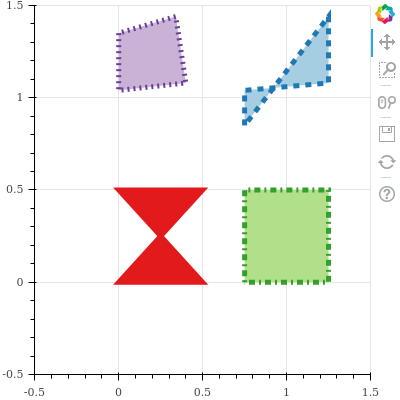
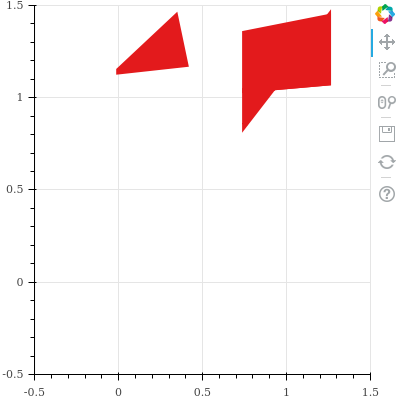
adding glyphs

diff --git a/visualizations/bokeh/figures/patch.html b/visualizations/bokeh/figures/patch.html
@@ -26,15 +26,15 @@
     <body>
         
         <div class="bk-root">
-            <div class="bk-plotdiv" id="acb2f535-c34e-4d77-b010-fb8c0f81516b"></div>
+            <div class="bk-plotdiv" id="664c1807-5802-43e1-a7bb-a69fbcb87f77"></div>
         </div>
         
         <script type="text/javascript">
             (function() {
           var fn = function() {
             Bokeh.safely(function() {
-              var docs_json = {"2e50db99-064f-498f-8656-4779b8f4eb30":{"roots":{"references":[{"attributes":{},"id":"783649a9-7b13-43c9-bb1c-559edea80e43","type":"BasicTickFormatter"},{"attributes":{},"id":"b2e44021-b923-4e7d-a6bb-28e6ff9cbe1a","type":"SaveTool"},{"attributes":{"data_source":{"id":"6ec3e90a-f447-46b9-a627-aa3384a4c715","type":"ColumnDataSource"},"glyph":{"id":"c9fff9de-6a8f-4f24-adc7-6ce4940cdd6e","type":"Patch"},"hover_glyph":null,"muted_glyph":null,"nonselection_glyph":{"id":"0e69bafe-fbf4-4b23-9811-c5df96c97fb1","type":"Patch"},"selection_glyph":null,"view":{"id":"1a965ad6-6dcb-4955-8770-4909d5cb0684","type":"CDSView"}},"id":"0b53b412-20fd-46e2-a4f5-11a2172a43cd","type":"GlyphRenderer"},{"attributes":{"source":{"id":"7b03a29e-695d-48c9-bf1a-b7f462319091","type":"ColumnDataSource"}},"id":"cbc02ddc-7483-4523-85de-5414f2ba7eb3","type":"CDSView"},{"attributes":{},"id":"c3b8a39f-5ce0-4db8-9dc5-6ad35fe9846f","type":"LinearScale"},{"attributes":{"formatter":{"id":"783649a9-7b13-43c9-bb1c-559edea80e43","type":"BasicTickFormatter"},"plot":{"id":"d9ff9a8d-fe4f-4138-ae7b-86426d08bb76","subtype":"Figure","type":"Plot"},"ticker":{"id":"79968414-ca8d-4686-98d8-5f7dd6ecda9d","type":"BasicTicker"}},"id":"dfc4ce8b-ee09-48c5-b7f1-9906ab9da1b5","type":"LinearAxis"},{"attributes":{"fill_alpha":{"value":0.1},"fill_color":{"value":"#1f77b4"},"line_alpha":{"value":0.1},"line_color":{"value":"#1f77b4"},"line_dash":[6],"line_width":{"value":5},"x":{"field":"x"},"y":{"field":"y"}},"id":"0e69bafe-fbf4-4b23-9811-c5df96c97fb1","type":"Patch"},{"attributes":{"fill_color":{"value":"#a6cee3"},"line_color":{"value":"#1f78b4"},"line_dash":[6],"line_width":{"value":5},"x":{"field":"x"},"y":{"field":"y"}},"id":"c9fff9de-6a8f-4f24-adc7-6ce4940cdd6e","type":"Patch"},{"attributes":{},"id":"0602b227-1480-42d1-a66e-86a65975c71b","type":"BasicTickFormatter"},{"attributes":{"source":{"id":"f5b23d7e-8fbb-467f-b301-7fc6ea789af7","type":"ColumnDataSource"}},"id":"a5012b1f-1249-4eee-a7e6-27b046202a6e","type":"CDSView"},{"attributes":{"plot":{"id":"d9ff9a8d-fe4f-4138-ae7b-86426d08bb76","subtype":"Figure","type":"Plot"},"ticker":{"id":"79968414-ca8d-4686-98d8-5f7dd6ecda9d","type":"BasicTicker"}},"id":"ab4c9503-8066-4458-a31f-6d842fe3b996","type":"Grid"},{"attributes":{"plot":null,"text":""},"id":"37ce132a-5087-4680-b360-d2ae9ed99b68","type":"Title"},{"attributes":{"overlay":{"id":"3a81ff9d-6a40-4730-b91e-39a7ecce71fb","type":"BoxAnnotation"}},"id":"f9edfc0b-6c89-4da9-922f-ee248467651e","type":"BoxZoomTool"},{"attributes":{},"id":"79968414-ca8d-4686-98d8-5f7dd6ecda9d","type":"BasicTicker"},{"attributes":{"data_source":{"id":"f5b23d7e-8fbb-467f-b301-7fc6ea789af7","type":"ColumnDataSource"},"glyph":{"id":"6c5410a0-3aa5-4270-aea4-0842cba5c1f4","type":"Patch"},"hover_glyph":null,"muted_glyph":null,"nonselection_glyph":{"id":"51c5f0de-45fa-4b4d-a3fa-b704635a34c1","type":"Patch"},"selection_glyph":null,"view":{"id":"a5012b1f-1249-4eee-a7e6-27b046202a6e","type":"CDSView"}},"id":"a87ea631-24e8-4779-b33a-820447a7360a","type":"GlyphRenderer"},{"attributes":{},"id":"2cd8e201-0aa5-4667-942d-695572f34c43","type":"LinearScale"},{"attributes":{"data_source":{"id":"7b03a29e-695d-48c9-bf1a-b7f462319091","type":"ColumnDataSource"},"glyph":{"id":"f2d82cc8-910a-434e-bde3-31d20c42064f","type":"Patch"},"hover_glyph":null,"muted_glyph":null,"nonselection_glyph":{"id":"a78a3837-5f10-44b7-9c22-43bc05b9e00d","type":"Patch"},"selection_glyph":null,"view":{"id":"cbc02ddc-7483-4523-85de-5414f2ba7eb3","type":"CDSView"}},"id":"0fce864d-81d0-4056-8464-481a7424edff","type":"GlyphRenderer"},{"attributes":{"fill_color":{"value":"#e31a1c"},"line_color":{"value":"#e31a1c"},"line_width":{"value":5},"x":{"field":"x"},"y":{"field":"y"}},"id":"f2d82cc8-910a-434e-bde3-31d20c42064f","type":"Patch"},{"attributes":{},"id":"49033719-64ef-4713-b508-37aa7b1a441a","type":"BasicTicker"},{"attributes":{"callback":null,"column_names":["y","x"],"data":{"x":[0,0.5,0,0.5],"y":[0,0.5,0.5,0]}},"id":"7b03a29e-695d-48c9-bf1a-b7f462319091","type":"ColumnDataSource"},{"attributes":{"fill_alpha":{"value":0.1},"fill_color":{"value":"#1f77b4"},"line_alpha":{"value":0.1},"line_color":{"value":"#1f77b4"},"line_dash":[2,4],"line_width":{"value":5},"x":{"field":"x"},"y":{"field":"y"}},"id":"7af712b8-29a1-470c-a76b-4fdb0f42e5f2","type":"Patch"},{"attributes":{"dimension":1,"plot":{"id":"d9ff9a8d-fe4f-4138-ae7b-86426d08bb76","subtype":"Figure","type":"Plot"},"ticker":{"id":"49033719-64ef-4713-b508-37aa7b1a441a","type":"BasicTicker"}},"id":"6277dd0d-768c-43db-8699-52ffb7747bc9","type":"Grid"},{"attributes":{"fill_color":{"value":"#cab2d6"},"line_color":{"value":"#6a3d9a"},"line_dash":[2,4],"line_width":{"value":5},"x":{"field":"x"},"y":{"field":"y"}},"id":"f6c29d93-8ab6-43f5-8385-7635cf4ab65c","type":"Patch"},{"attributes":{"callback":null,"column_names":["y","x"],"data":{"x":[0.75,0.75,1.25,1.25],"y":[0.85,1.04,1.08,1.44]}},"id":"6ec3e90a-f447-46b9-a627-aa3384a4c715","type":"ColumnDataSource"},{"attributes":{"below":[{"id":"dfc4ce8b-ee09-48c5-b7f1-9906ab9da1b5","type":"LinearAxis"}],"left":[{"id":"2a2468ba-07be-4677-9afc-eeff464e1607","type":"LinearAxis"}],"plot_height":400,"plot_width":400,"renderers":[{"id":"dfc4ce8b-ee09-48c5-b7f1-9906ab9da1b5","type":"LinearAxis"},{"id":"ab4c9503-8066-4458-a31f-6d842fe3b996","type":"Grid"},{"id":"2a2468ba-07be-4677-9afc-eeff464e1607","type":"LinearAxis"},{"id":"6277dd0d-768c-43db-8699-52ffb7747bc9","type":"Grid"},{"id":"3a81ff9d-6a40-4730-b91e-39a7ecce71fb","type":"BoxAnnotation"},{"id":"0fce864d-81d0-4056-8464-481a7424edff","type":"GlyphRenderer"},{"id":"a87ea631-24e8-4779-b33a-820447a7360a","type":"GlyphRenderer"},{"id":"0b53b412-20fd-46e2-a4f5-11a2172a43cd","type":"GlyphRenderer"},{"id":"a7165d2a-b00a-4993-8995-d3b809afcfdc","type":"GlyphRenderer"}],"title":{"id":"37ce132a-5087-4680-b360-d2ae9ed99b68","type":"Title"},"toolbar":{"id":"bdf06b0c-229b-4c37-90c5-31de34cb34ae","type":"Toolbar"},"x_range":{"id":"9037298e-64ee-4a86-b092-34eed0d2ca81","type":"Range1d"},"x_scale":{"id":"2cd8e201-0aa5-4667-942d-695572f34c43","type":"LinearScale"},"y_range":{"id":"149027be-69a2-4fda-8026-df774d7b6e67","type":"Range1d"},"y_scale":{"id":"c3b8a39f-5ce0-4db8-9dc5-6ad35fe9846f","type":"LinearScale"}},"id":"d9ff9a8d-fe4f-4138-ae7b-86426d08bb76","subtype":"Figure","type":"Plot"},{"attributes":{"fill_color":{"value":"#b2df8a"},"line_color":{"value":"#33a02c"},"line_dash":[2,4,6,4],"line_width":{"value":5},"x":{"field":"x"},"y":{"field":"y"}},"id":"6c5410a0-3aa5-4270-aea4-0842cba5c1f4","type":"Patch"},{"attributes":{"fill_alpha":{"value":0.1},"fill_color":{"value":"#1f77b4"},"line_alpha":{"value":0.1},"line_color":{"value":"#1f77b4"},"line_width":{"value":5},"x":{"field":"x"},"y":{"field":"y"}},"id":"a78a3837-5f10-44b7-9c22-43bc05b9e00d","type":"Patch"},{"attributes":{"bounds":[-1,2],"callback":null,"end":1.5,"start":-0.5},"id":"149027be-69a2-4fda-8026-df774d7b6e67","type":"Range1d"},{"attributes":{},"id":"e5b281da-4fb7-420c-8ef0-d3c4a049a4fa","type":"HelpTool"},{"attributes":{"callback":null,"column_names":["y","x"],"data":{"x":[0,0,0.4,0.34],"y":[1.35,1.04,1.08,1.44]}},"id":"5ad27e6c-841e-4d7c-8939-1b69d841e201","type":"ColumnDataSource"},{"attributes":{},"id":"3f3bd9d7-b638-45f2-ac50-61deb3323735","type":"PanTool"},{"attributes":{"data_source":{"id":"5ad27e6c-841e-4d7c-8939-1b69d841e201","type":"ColumnDataSource"},"glyph":{"id":"f6c29d93-8ab6-43f5-8385-7635cf4ab65c","type":"Patch"},"hover_glyph":null,"muted_glyph":null,"nonselection_glyph":{"id":"7af712b8-29a1-470c-a76b-4fdb0f42e5f2","type":"Patch"},"selection_glyph":null,"view":{"id":"7bc45601-b80d-4b09-bce3-eb89c3ca5b0d","type":"CDSView"}},"id":"a7165d2a-b00a-4993-8995-d3b809afcfdc","type":"GlyphRenderer"},{"attributes":{},"id":"efd5be2c-c645-4534-a491-e050ec36cfa5","type":"WheelZoomTool"},{"attributes":{"bounds":[-1,2],"callback":null,"end":1.5,"start":-0.5},"id":"9037298e-64ee-4a86-b092-34eed0d2ca81","type":"Range1d"},{"attributes":{"source":{"id":"5ad27e6c-841e-4d7c-8939-1b69d841e201","type":"ColumnDataSource"}},"id":"7bc45601-b80d-4b09-bce3-eb89c3ca5b0d","type":"CDSView"},{"attributes":{"callback":null,"column_names":["y","x"],"data":{"x":[0.75,0.75,1.25,1.25],"y":[0,0.5,0.5,0]}},"id":"f5b23d7e-8fbb-467f-b301-7fc6ea789af7","type":"ColumnDataSource"},{"attributes":{"formatter":{"id":"0602b227-1480-42d1-a66e-86a65975c71b","type":"BasicTickFormatter"},"plot":{"id":"d9ff9a8d-fe4f-4138-ae7b-86426d08bb76","subtype":"Figure","type":"Plot"},"ticker":{"id":"49033719-64ef-4713-b508-37aa7b1a441a","type":"BasicTicker"}},"id":"2a2468ba-07be-4677-9afc-eeff464e1607","type":"LinearAxis"},{"attributes":{"active_drag":"auto","active_inspect":"auto","active_scroll":"auto","active_tap":"auto","tools":[{"id":"3f3bd9d7-b638-45f2-ac50-61deb3323735","type":"PanTool"},{"id":"efd5be2c-c645-4534-a491-e050ec36cfa5","type":"WheelZoomTool"},{"id":"f9edfc0b-6c89-4da9-922f-ee248467651e","type":"BoxZoomTool"},{"id":"b2e44021-b923-4e7d-a6bb-28e6ff9cbe1a","type":"SaveTool"},{"id":"b8d39ee3-12c1-419c-83b3-d47daef8af59","type":"ResetTool"},{"id":"e5b281da-4fb7-420c-8ef0-d3c4a049a4fa","type":"HelpTool"}]},"id":"bdf06b0c-229b-4c37-90c5-31de34cb34ae","type":"Toolbar"},{"attributes":{"bottom_units":"screen","fill_alpha":{"value":0.5},"fill_color":{"value":"lightgrey"},"left_units":"screen","level":"overlay","line_alpha":{"value":1.0},"line_color":{"value":"black"},"line_dash":[4,4],"line_width":{"value":2},"plot":null,"render_mode":"css","right_units":"screen","top_units":"screen"},"id":"3a81ff9d-6a40-4730-b91e-39a7ecce71fb","type":"BoxAnnotation"},{"attributes":{"fill_alpha":{"value":0.1},"fill_color":{"value":"#1f77b4"},"line_alpha":{"value":0.1},"line_color":{"value":"#1f77b4"},"line_dash":[2,4,6,4],"line_width":{"value":5},"x":{"field":"x"},"y":{"field":"y"}},"id":"51c5f0de-45fa-4b4d-a3fa-b704635a34c1","type":"Patch"},{"attributes":{},"id":"b8d39ee3-12c1-419c-83b3-d47daef8af59","type":"ResetTool"},{"attributes":{"source":{"id":"6ec3e90a-f447-46b9-a627-aa3384a4c715","type":"ColumnDataSource"}},"id":"1a965ad6-6dcb-4955-8770-4909d5cb0684","type":"CDSView"}],"root_ids":["d9ff9a8d-fe4f-4138-ae7b-86426d08bb76"]},"title":"Bokeh Application","version":"0.12.7"}};
-              var render_items = [{"docid":"2e50db99-064f-498f-8656-4779b8f4eb30","elementid":"acb2f535-c34e-4d77-b010-fb8c0f81516b","modelid":"d9ff9a8d-fe4f-4138-ae7b-86426d08bb76"}];
+              var docs_json = {"88045ab6-6829-4f32-948a-fe4c7f1014f8":{"roots":{"references":[{"attributes":{},"id":"a8262f78-4e58-4b43-99de-b7a970c892fc","type":"BasicTicker"},{"attributes":{"plot":null,"text":""},"id":"e249fe17-2559-480b-b554-0b5b51fc60c1","type":"Title"},{"attributes":{"source":{"id":"9fda3606-a7b4-4693-a064-5e21b81ee770","type":"ColumnDataSource"}},"id":"7946e31c-65f4-42d3-88a0-525ce6bd23f8","type":"CDSView"},{"attributes":{},"id":"2d9d4e23-44a2-4756-9a9e-f5f074a67c80","type":"BasicTickFormatter"},{"attributes":{},"id":"7eb778c4-ab61-4c92-b9e4-3393a91841db","type":"ResetTool"},{"attributes":{"dimension":1,"plot":{"id":"b905e66a-b021-4c26-8d13-4cbc5c3aab00","subtype":"Figure","type":"Plot"},"ticker":{"id":"58040797-9936-4f4b-a8d8-1130339f467e","type":"BasicTicker"}},"id":"5a844895-7955-4b1d-b9ab-6942ef1261e4","type":"Grid"},{"attributes":{"active_drag":"auto","active_inspect":"auto","active_scroll":"auto","active_tap":"auto","tools":[{"id":"de63e132-f154-4698-83c1-7821eed22e26","type":"PanTool"},{"id":"93f30812-325d-45ff-902c-e30c3a314508","type":"WheelZoomTool"},{"id":"31a0f865-2dc8-4a8a-8445-dbe84a716624","type":"BoxZoomTool"},{"id":"44fffb83-c04f-40ef-b8f2-f0f5662ad8af","type":"SaveTool"},{"id":"7eb778c4-ab61-4c92-b9e4-3393a91841db","type":"ResetTool"},{"id":"c64cdc72-795d-4197-91f8-5d7d88d432ca","type":"HelpTool"}]},"id":"5c427290-9bf3-4eef-a665-6f6db90e665b","type":"Toolbar"},{"attributes":{},"id":"f5495725-ee36-4204-a5aa-f3a2291e806c","type":"BasicTickFormatter"},{"attributes":{},"id":"93f30812-325d-45ff-902c-e30c3a314508","type":"WheelZoomTool"},{"attributes":{"bounds":[-1,2],"callback":null,"end":1.5,"start":-0.5},"id":"6887834b-7758-4e5e-9596-a14a05b7e76c","type":"Range1d"},{"attributes":{},"id":"5633c6e8-438e-4f24-97b0-f8ac2f50379e","type":"LinearScale"},{"attributes":{"data_source":{"id":"9fda3606-a7b4-4693-a064-5e21b81ee770","type":"ColumnDataSource"},"glyph":{"id":"ea662a9c-bb3b-4637-813d-a13d971acb1a","type":"Patches"},"hover_glyph":null,"muted_glyph":null,"nonselection_glyph":{"id":"de7630f8-644a-43ce-b062-bc51e79309ce","type":"Patches"},"selection_glyph":null,"view":{"id":"7946e31c-65f4-42d3-88a0-525ce6bd23f8","type":"CDSView"}},"id":"427b3589-982b-46b9-8a9f-ab0fce9b90f0","type":"GlyphRenderer"},{"attributes":{"bottom_units":"screen","fill_alpha":{"value":0.5},"fill_color":{"value":"lightgrey"},"left_units":"screen","level":"overlay","line_alpha":{"value":1.0},"line_color":{"value":"black"},"line_dash":[4,4],"line_width":{"value":2},"plot":null,"render_mode":"css","right_units":"screen","top_units":"screen"},"id":"a9e76f78-d1b7-4f56-aa2a-c9cb3eb7ee08","type":"BoxAnnotation"},{"attributes":{},"id":"c64cdc72-795d-4197-91f8-5d7d88d432ca","type":"HelpTool"},{"attributes":{},"id":"58040797-9936-4f4b-a8d8-1130339f467e","type":"BasicTicker"},{"attributes":{"formatter":{"id":"2d9d4e23-44a2-4756-9a9e-f5f074a67c80","type":"BasicTickFormatter"},"plot":{"id":"b905e66a-b021-4c26-8d13-4cbc5c3aab00","subtype":"Figure","type":"Plot"},"ticker":{"id":"58040797-9936-4f4b-a8d8-1130339f467e","type":"BasicTicker"}},"id":"61c346b2-dea3-48e5-922b-1109defb268d","type":"LinearAxis"},{"attributes":{"plot":{"id":"b905e66a-b021-4c26-8d13-4cbc5c3aab00","subtype":"Figure","type":"Plot"},"ticker":{"id":"a8262f78-4e58-4b43-99de-b7a970c892fc","type":"BasicTicker"}},"id":"63326504-e74d-4843-a90b-4becdd9a9b8b","type":"Grid"},{"attributes":{"fill_color":{"value":"#e31a1c"},"line_color":{"value":"#e31a1c"},"line_width":{"value":5},"xs":{"field":"xs"},"ys":{"field":"ys"}},"id":"ea662a9c-bb3b-4637-813d-a13d971acb1a","type":"Patches"},{"attributes":{},"id":"de63e132-f154-4698-83c1-7821eed22e26","type":"PanTool"},{"attributes":{"overlay":{"id":"a9e76f78-d1b7-4f56-aa2a-c9cb3eb7ee08","type":"BoxAnnotation"}},"id":"31a0f865-2dc8-4a8a-8445-dbe84a716624","type":"BoxZoomTool"},{"attributes":{"below":[{"id":"10a628db-5954-43da-ad11-8c8aaa6590c9","type":"LinearAxis"}],"left":[{"id":"61c346b2-dea3-48e5-922b-1109defb268d","type":"LinearAxis"}],"plot_height":400,"plot_width":400,"renderers":[{"id":"10a628db-5954-43da-ad11-8c8aaa6590c9","type":"LinearAxis"},{"id":"63326504-e74d-4843-a90b-4becdd9a9b8b","type":"Grid"},{"id":"61c346b2-dea3-48e5-922b-1109defb268d","type":"LinearAxis"},{"id":"5a844895-7955-4b1d-b9ab-6942ef1261e4","type":"Grid"},{"id":"a9e76f78-d1b7-4f56-aa2a-c9cb3eb7ee08","type":"BoxAnnotation"},{"id":"427b3589-982b-46b9-8a9f-ab0fce9b90f0","type":"GlyphRenderer"}],"title":{"id":"e249fe17-2559-480b-b554-0b5b51fc60c1","type":"Title"},"toolbar":{"id":"5c427290-9bf3-4eef-a665-6f6db90e665b","type":"Toolbar"},"x_range":{"id":"6887834b-7758-4e5e-9596-a14a05b7e76c","type":"Range1d"},"x_scale":{"id":"6cbcdb6d-e95c-4832-89b3-71ec2e02893d","type":"LinearScale"},"y_range":{"id":"a4bcc79b-e875-433e-82b6-0ad7232a3fd7","type":"Range1d"},"y_scale":{"id":"5633c6e8-438e-4f24-97b0-f8ac2f50379e","type":"LinearScale"}},"id":"b905e66a-b021-4c26-8d13-4cbc5c3aab00","subtype":"Figure","type":"Plot"},{"attributes":{"fill_alpha":{"value":0.1},"fill_color":{"value":"#1f77b4"},"line_alpha":{"value":0.1},"line_color":{"value":"#1f77b4"},"line_width":{"value":5},"xs":{"field":"xs"},"ys":{"field":"ys"}},"id":"de7630f8-644a-43ce-b062-bc51e79309ce","type":"Patches"},{"attributes":{},"id":"44fffb83-c04f-40ef-b8f2-f0f5662ad8af","type":"SaveTool"},{"attributes":{"bounds":[-1,2],"callback":null,"end":1.5,"start":-0.5},"id":"a4bcc79b-e875-433e-82b6-0ad7232a3fd7","type":"Range1d"},{"attributes":{"formatter":{"id":"f5495725-ee36-4204-a5aa-f3a2291e806c","type":"BasicTickFormatter"},"plot":{"id":"b905e66a-b021-4c26-8d13-4cbc5c3aab00","subtype":"Figure","type":"Plot"},"ticker":{"id":"a8262f78-4e58-4b43-99de-b7a970c892fc","type":"BasicTicker"}},"id":"10a628db-5954-43da-ad11-8c8aaa6590c9","type":"LinearAxis"},{"attributes":{"callback":null,"column_names":["ys","xs"],"data":{"xs":[[[0,0.5,0,0.5]],[0.75,0.75,1.25,1.25],[0.75,0.75,1.25,1.25],[0,0,0.4,0.34]],"ys":[[0,0.5,0.5,0],[0.85,1.04,1.08,1.44],[1.35,1.04,1.08,1.44],[1.15,1.1400000000000001,1.18,1.44]]}},"id":"9fda3606-a7b4-4693-a064-5e21b81ee770","type":"ColumnDataSource"},{"attributes":{},"id":"6cbcdb6d-e95c-4832-89b3-71ec2e02893d","type":"LinearScale"}],"root_ids":["b905e66a-b021-4c26-8d13-4cbc5c3aab00"]},"title":"Bokeh Application","version":"0.12.7"}};
+              var render_items = [{"docid":"88045ab6-6829-4f32-948a-fe4c7f1014f8","elementid":"664c1807-5802-43e1-a7bb-a69fbcb87f77","modelid":"b905e66a-b021-4c26-8d13-4cbc5c3aab00"}];
               
               Bokeh.embed.embed_items(docs_json, render_items);
             });

diff --git a/format_template.py b/format_template.py
@@ -6,7 +6,7 @@ base_image_filename  = '../visualizations/'
 key_base = "bokeh_glyphs_{}"
 glyph_names = ['annular_wedge', 'annulus','arc','asterisk','circle',
 'circle_cross','circle_x','cross','diamond','diamond_cross','ellipse',
-'hbar','image','image_rgba', 'image_url', 'line', 'oval','patch', 'square',
+'hbar','image','image_rgba', 'image_url', 'inverted_triangle','line', 'oval','patch', 'square',
 'triangle','vbar']
 
 glyph_format_dict = dict(glyph_base_code_filename=base_filename+'bokeh/glyphs/',

diff --git a/gallery.md b/gallery.md
@@ -30,6 +30,7 @@ Below is a collection of data visualizations. Each final image below links to th
 &nbsp;&nbsp;&nbsp;&nbsp;&nbsp;&nbsp;&nbsp;&nbsp; - [Image](#bokeh-glyphs-image)   
 &nbsp;&nbsp;&nbsp;&nbsp;&nbsp;&nbsp;&nbsp;&nbsp; - [Image RGBA](#bokeh-glyphs-image_rgba)  
 &nbsp;&nbsp;&nbsp;&nbsp;&nbsp;&nbsp;&nbsp;&nbsp; - [Image URL](#bokeh-glyphs-image_url)  
+&nbsp;&nbsp;&nbsp;&nbsp;&nbsp;&nbsp;&nbsp;&nbsp; - [Inverted Triangle](#bokeh-glyphs-inverted_triangle) 
 &nbsp;&nbsp;&nbsp;&nbsp;&nbsp;&nbsp;&nbsp;&nbsp; - [Line](#bokeh-glyphs-line) 
 &nbsp;&nbsp;&nbsp;&nbsp;&nbsp;&nbsp;&nbsp;&nbsp; - [Oval](#bokeh-glyphs-oval) 
 &nbsp;&nbsp;&nbsp;&nbsp;&nbsp;&nbsp;&nbsp;&nbsp; - [Patch](#bokeh-glyphs-patch)
@@ -158,6 +159,12 @@ Glyphs are the fundamental building block of plots in `Bokeh`.
 <a name="bokeh-glyphs-image_url"></a>
 #### Image Url ([Interactive](http://alanpryorjr.com/visualizations/bokeh/figures/image_url)) [(code)](http://alanpryorjr.com/visualizations/bokeh/glyphs/image_url/image_url)
 ![Image Url](../visualizations/bokeh/figures/image_url.png)
+
+
+
+<a name="bokeh-glyphs-inverted_triangle"></a>
+#### Inverted Triangle ([Interactive](http://alanpryorjr.com/visualizations/bokeh/figures/inverted_triangle)) [(code)](http://alanpryorjr.com/visualizations/bokeh/glyphs/inverted_triangle/inverted_triangle)
+![Inverted Triangle](../visualizations/bokeh/figures/inverted_triangle.png)
 
 
 

diff --git a/gallery-template.md b/gallery-template.md
@@ -30,6 +30,7 @@ Below is a collection of data visualizations. Each final image below links to th
 &nbsp;&nbsp;&nbsp;&nbsp;&nbsp;&nbsp;&nbsp;&nbsp; - [Image](#bokeh-glyphs-image)   
 &nbsp;&nbsp;&nbsp;&nbsp;&nbsp;&nbsp;&nbsp;&nbsp; - [Image RGBA](#bokeh-glyphs-image_rgba)  
 &nbsp;&nbsp;&nbsp;&nbsp;&nbsp;&nbsp;&nbsp;&nbsp; - [Image URL](#bokeh-glyphs-image_url)  
+&nbsp;&nbsp;&nbsp;&nbsp;&nbsp;&nbsp;&nbsp;&nbsp; - [Inverted Triangle](#bokeh-glyphs-inverted_triangle) 
 &nbsp;&nbsp;&nbsp;&nbsp;&nbsp;&nbsp;&nbsp;&nbsp; - [Line](#bokeh-glyphs-line) 
 &nbsp;&nbsp;&nbsp;&nbsp;&nbsp;&nbsp;&nbsp;&nbsp; - [Oval](#bokeh-glyphs-oval) 
 &nbsp;&nbsp;&nbsp;&nbsp;&nbsp;&nbsp;&nbsp;&nbsp; - [Patch](#bokeh-glyphs-patch)
@@ -99,6 +100,8 @@ Glyphs are the fundamental building block of plots in `Bokeh`.
 {bokeh_glyphs_image_rgba}
 
 {bokeh_glyphs_image_url}
+
+{bokeh_glyphs_inverted_triangle}
 
 {bokeh_glyphs_line}
 
